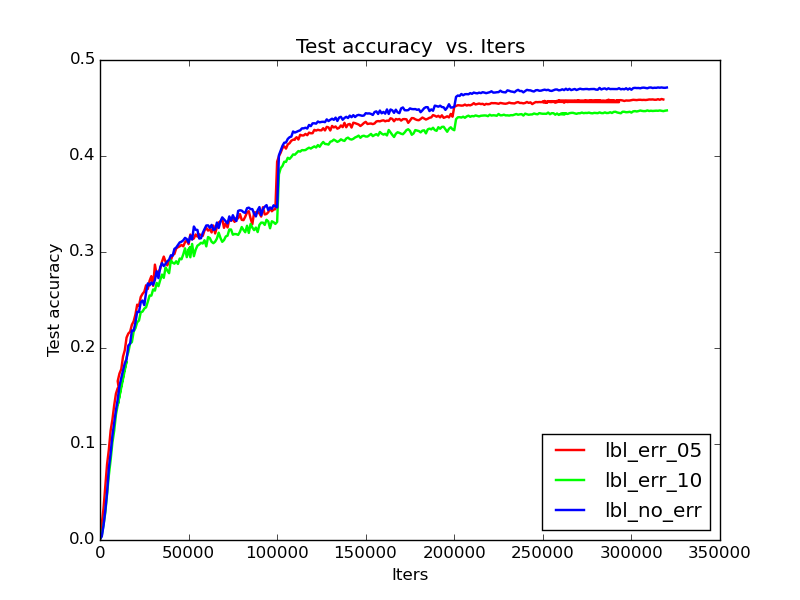
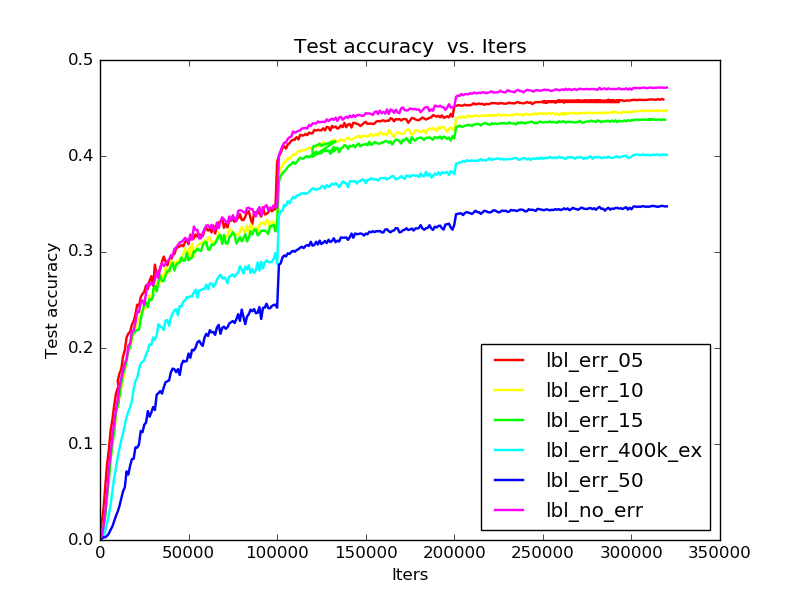
Added 15% and 50% noisy labels

diff --git a/Dataset_quality.md b/Dataset_quality.md
@@ -18,7 +18,8 @@ Default augmentation: random crop 128x128 from 144xN image, 50% random horizonta
 | Default, clean labels | **0.471** | **2.36** | |
 | 5% incorrect labels |0.458| 2.45 | |
 | 10% incorrect labels | 0.447| 2.58 | |
-
+| 15% incorrect labels | 0.437| 2.69 | |
+| 50% incorrect labels | 0.347| 3.44 | |
 
 
 [logs](https://github.com/ducha-aiki/caffenet-benchmark/tree/master/logs/contrib)

diff --git a/README.md b/README.md
@@ -508,6 +508,8 @@ Or why input var=1 for LSUV is so important
 | Default, clean labels | **0.471** | **2.36** | |
 | 5% incorrect labels |0.458| 2.45 | |
 | 10% incorrect labels | 0.447| 2.58 | |
+| 15% incorrect labels | 0.437| 2.69 | |
+| 50% incorrect labels | 0.347| 3.44 | |
 
 [logs](https://github.com/ducha-aiki/caffenet-benchmark/tree/master/logs/contrib) 
 
